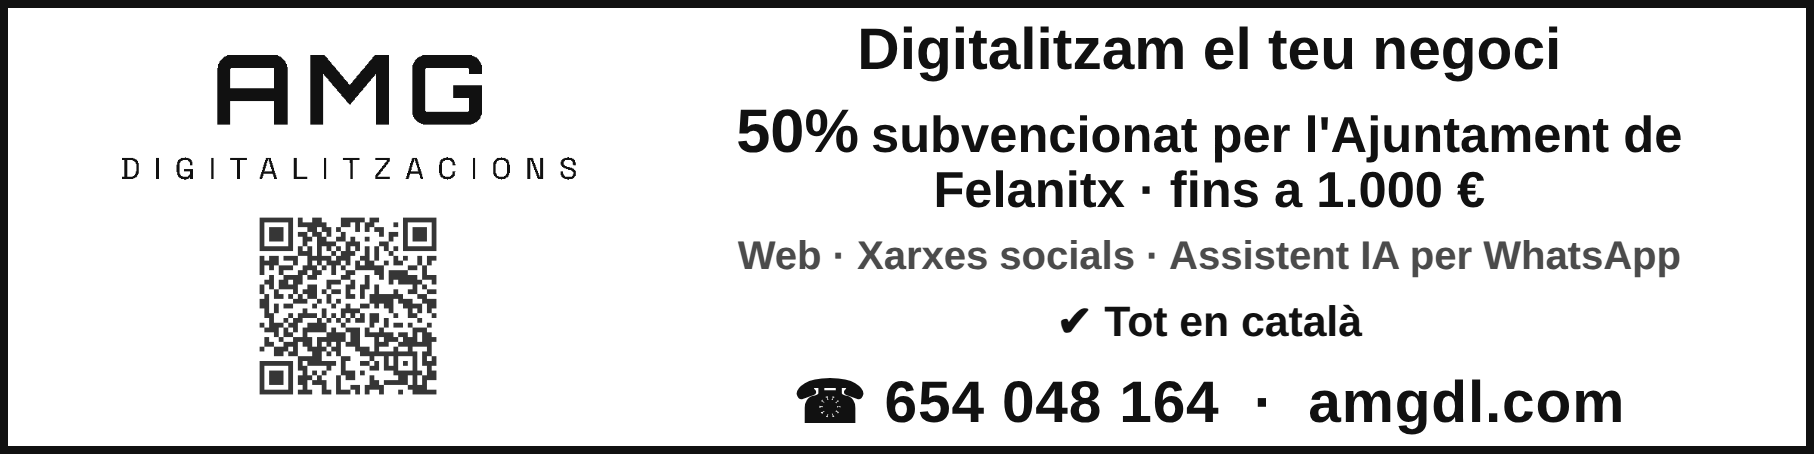
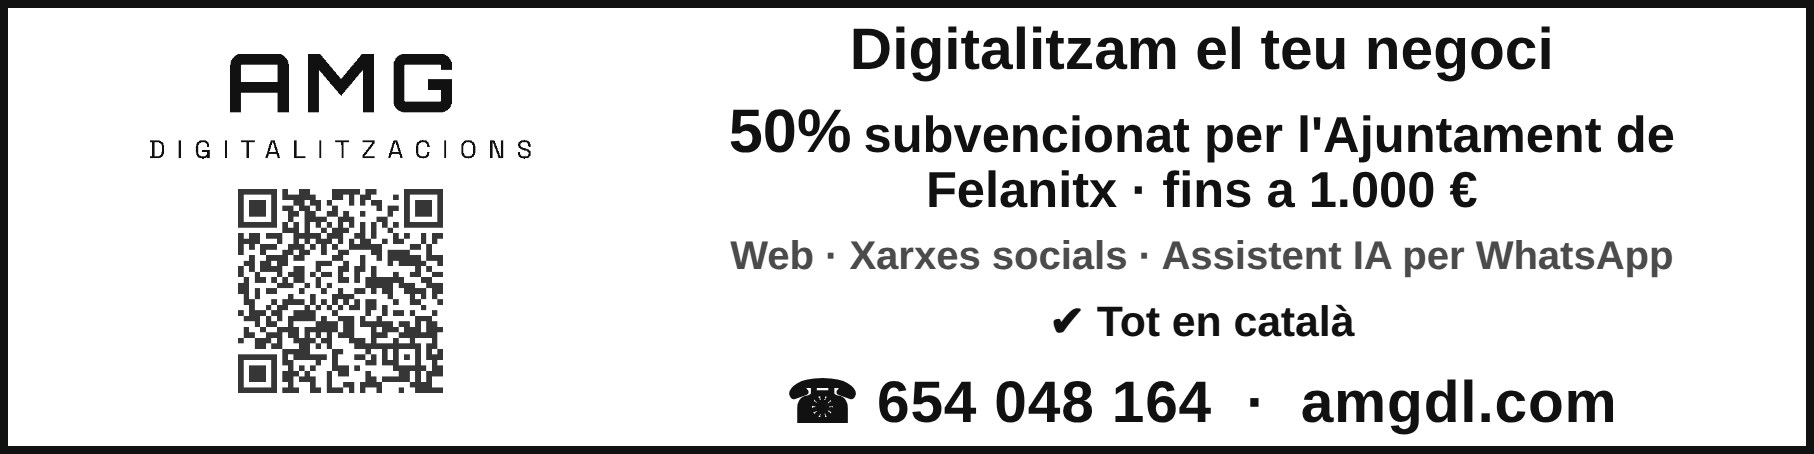
docs: anuncis — QR més gran (15mm) per assegurar l'escaneig

diff --git a/docs/anunci-ajut-ajuntament-felanitx.html b/docs/anunci-ajut-ajuntament-felanitx.html
@@ -14,10 +14,10 @@
     width:120mm; height:30mm; background:#fff; border:2px solid #111;
     display:flex; align-items:center; gap:5mm; padding:2.5mm 5mm; overflow:hidden;
   }
-  .left { flex-shrink:0; display:flex; flex-direction:column; align-items:center; gap:1.5mm; }
-  .left .logo { width:35mm; height:9mm;
+  .left { flex-shrink:0; display:flex; flex-direction:column; align-items:center; gap:1mm; }
+  .left .logo { width:34mm; height:7.5mm;
     background:url("amg-logo-black.png") center/contain no-repeat; }
-  .left .qr { width:13mm; height:13mm; }
+  .left .qr { width:15mm; height:15mm; }
 
   .content { flex:1; text-align:center; color:var(--ink); display:flex; flex-direction:column; gap:1.3mm; }
   .claim { font-size:11pt; font-weight:800; line-height:1; }

diff --git a/docs/anunci-amg-general.html b/docs/anunci-amg-general.html
@@ -14,10 +14,10 @@
     width:120mm; height:30mm; background:#fff; border:2px solid #111;
     display:flex; align-items:center; gap:5mm; padding:2.5mm 5mm; overflow:hidden;
   }
-  .left { flex-shrink:0; display:flex; flex-direction:column; align-items:center; gap:1.5mm; }
-  .left .logo { width:35mm; height:9mm;
+  .left { flex-shrink:0; display:flex; flex-direction:column; align-items:center; gap:1mm; }
+  .left .logo { width:34mm; height:7.5mm;
     background:url("amg-logo-black.png") center/contain no-repeat; }
-  .left .qr { width:13mm; height:13mm; }
+  .left .qr { width:15mm; height:15mm; }
 
   .content { flex:1; text-align:center; color:var(--ink); display:flex; flex-direction:column; gap:1.3mm; }
   .claim { font-size:11pt; font-weight:800; line-height:1; }
